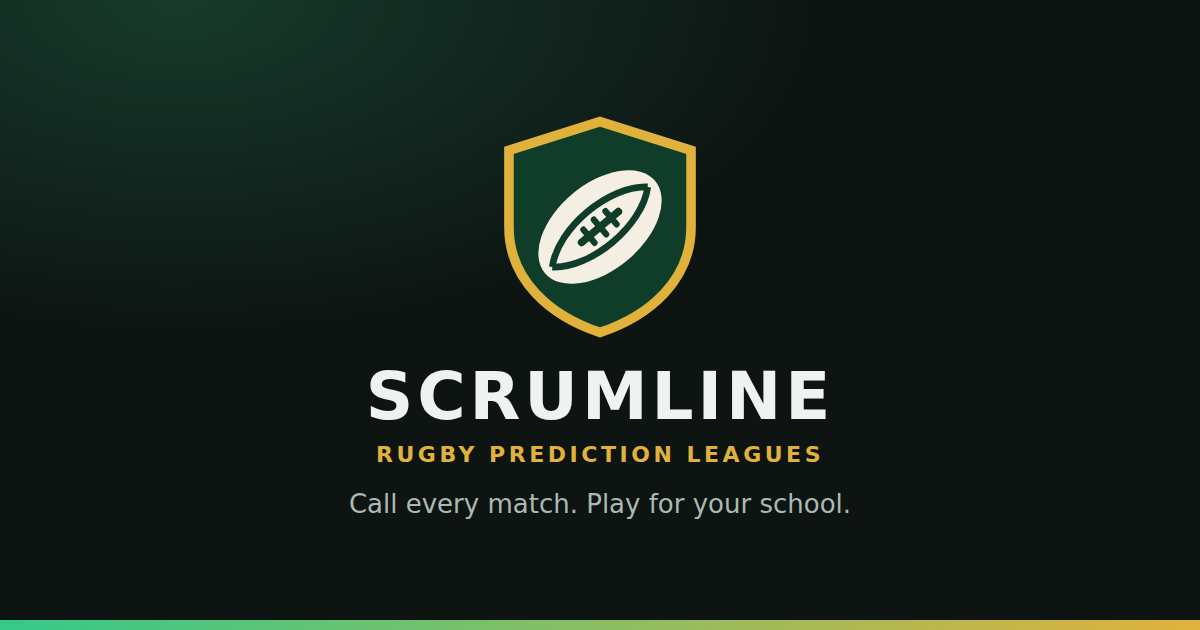
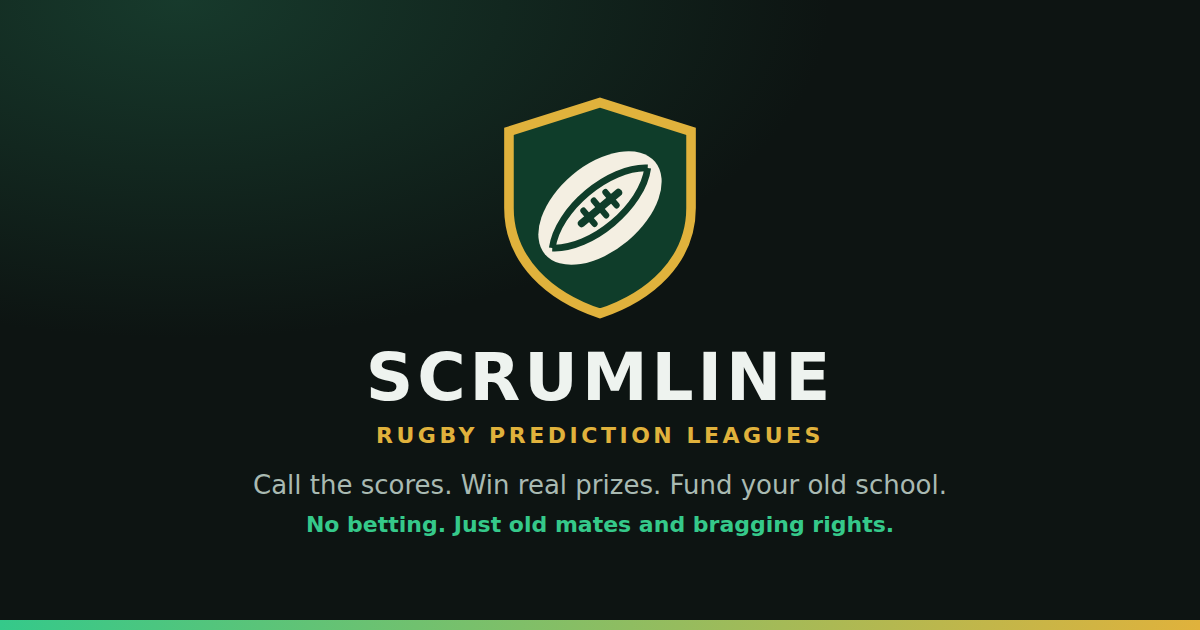
Sell the idea in shared links: prizes, schools, old mates, no betting
Card tagline, link description and invite message now say what makes
Scrumline different: call the scores, win real prizes from local
businesses, help fund your school's projects, no betting.

Claude-Session: https://claude.ai/code/session_01Gzoaogn2svzijADxrmvZ1u

Changed region(s): [[0.2158, 0.1508, 0.8017, 0.8444]]

diff --git a/src/components/invite-card.tsx b/src/components/invite-card.tsx
@@ -37,8 +37,8 @@ export function InviteCard() {
 
   async function share() {
     const text = named
-      ? `I'm calling every weekend's rugby on Scrumline for ${named}. Come play for our schools, back your calls against the mates and climb the table: ${link}`
-      : `I'm calling every weekend's rugby on Scrumline. Come back your calls against the mates, play for your old school and climb the table: ${link}`;
+      ? `Old mates, we're back on the same team. I'm calling every weekend's rugby on Scrumline for ${named}. Call the scores, win real prizes from local businesses and help fund our schools' projects. No betting, just bragging rights. Join me: ${link}`
+      : `Old mates, we're back on the same team. I'm calling every weekend's rugby on Scrumline. Call the scores, win real prizes from local businesses and help fund your old school's projects. No betting, just bragging rights. Join me: ${link}`;
     try {
       if (navigator.share) await navigator.share({ text });
       else { await navigator.clipboard.writeText(link); setCopied(true); }

diff --git a/src/app/layout.tsx b/src/app/layout.tsx
@@ -7,7 +7,7 @@ import { Brand } from "@/components/logo";
 import { PwaSetup } from "@/components/pwa-setup";
 import { PreviewBar } from "@/components/preview-bar";
 
-const description = "Invite-only rugby prediction leagues on real results: Currie Cup, URC and more.";
+const description = "Rugby predictions with your old mates. Call the scores, win real prizes from local businesses and help fund your school's projects. No betting.";
 // Link previews (WhatsApp, iMessage, socials) need an absolute image address, or the app picks its own.
 const site = `${process.env.NEXT_PUBLIC_SITE_ORIGIN ?? "https://jdaines89.github.io"}${process.env.NEXT_PUBLIC_BASE_PATH ?? ""}`;
 const card = { url: `${site}/og.png`, width: 1200, height: 630, alt: "Scrumline, rugby prediction leagues" };
